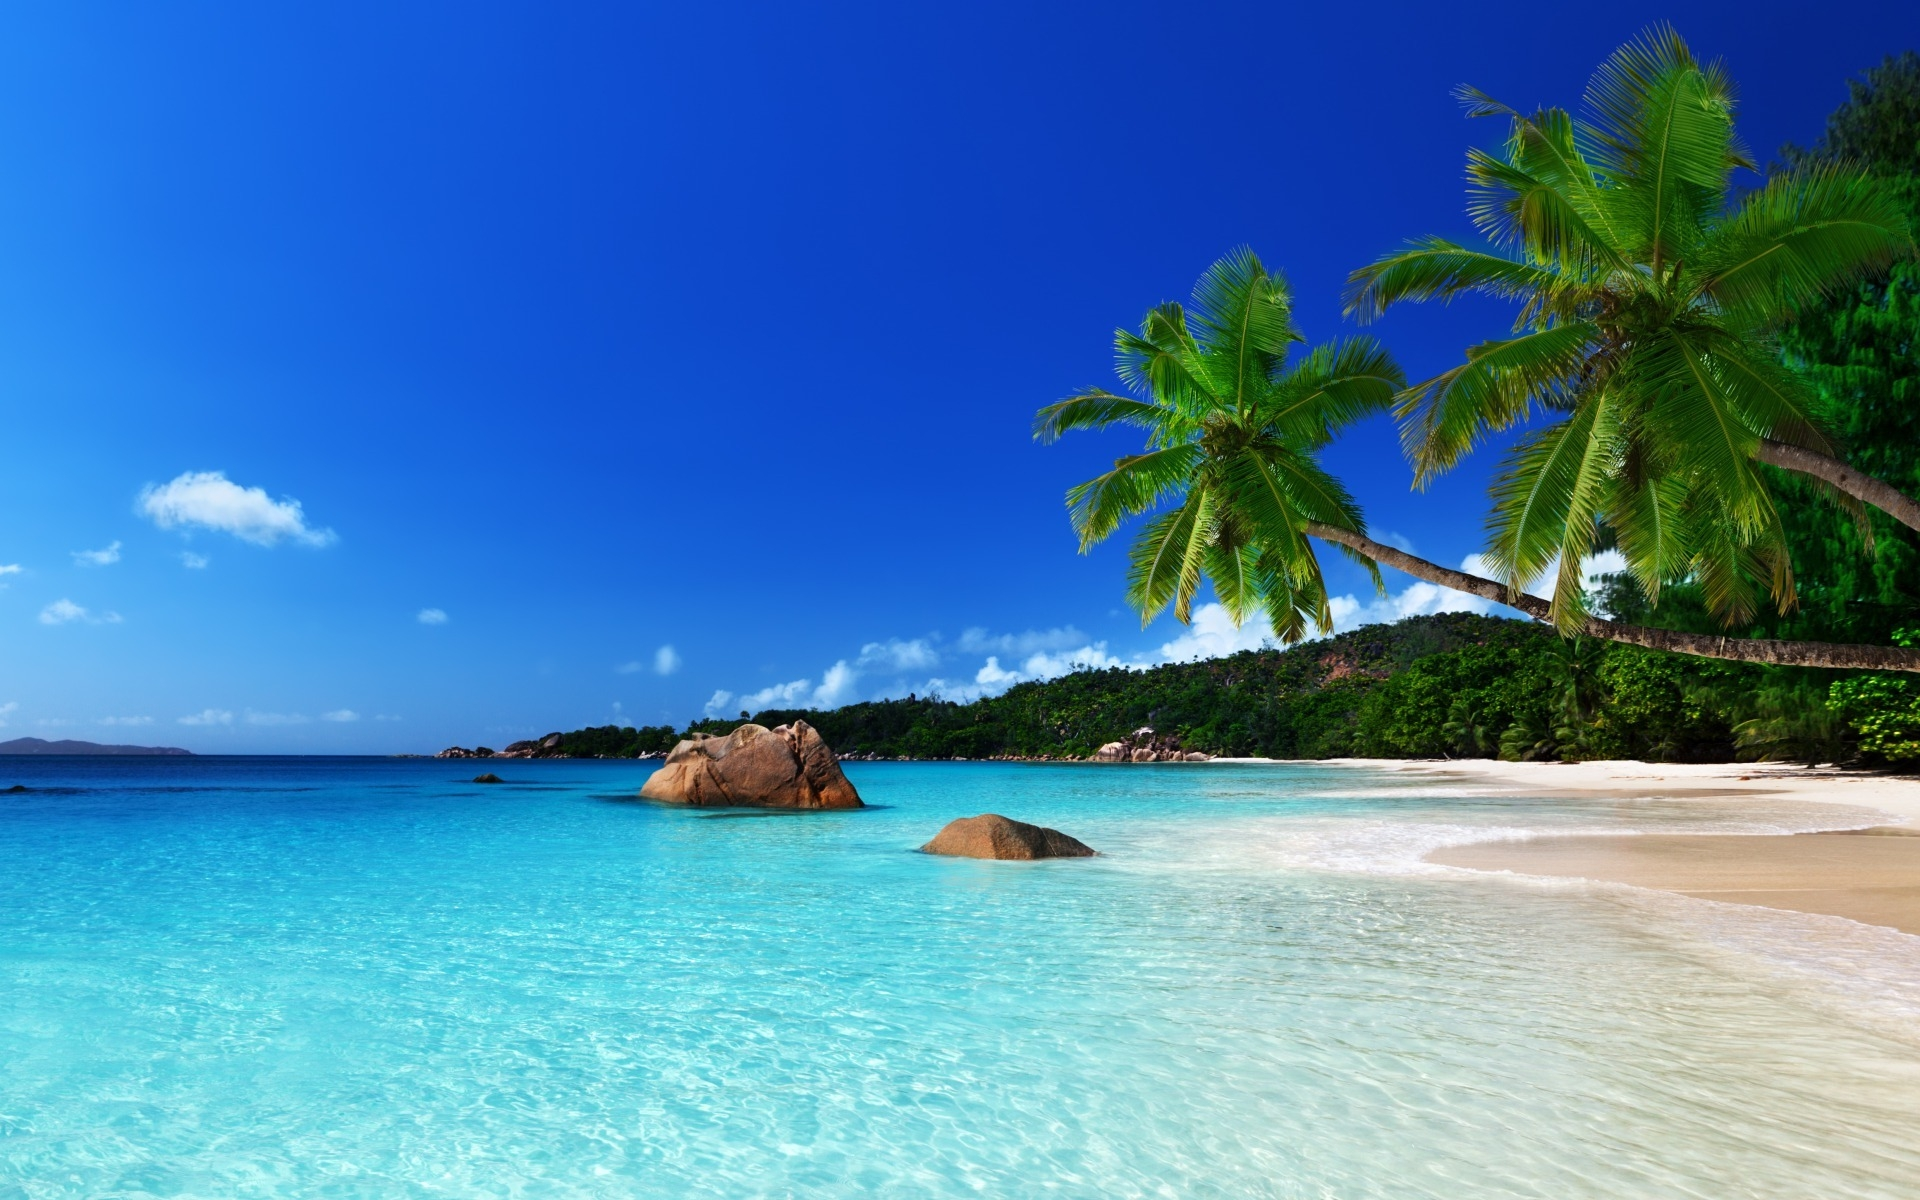
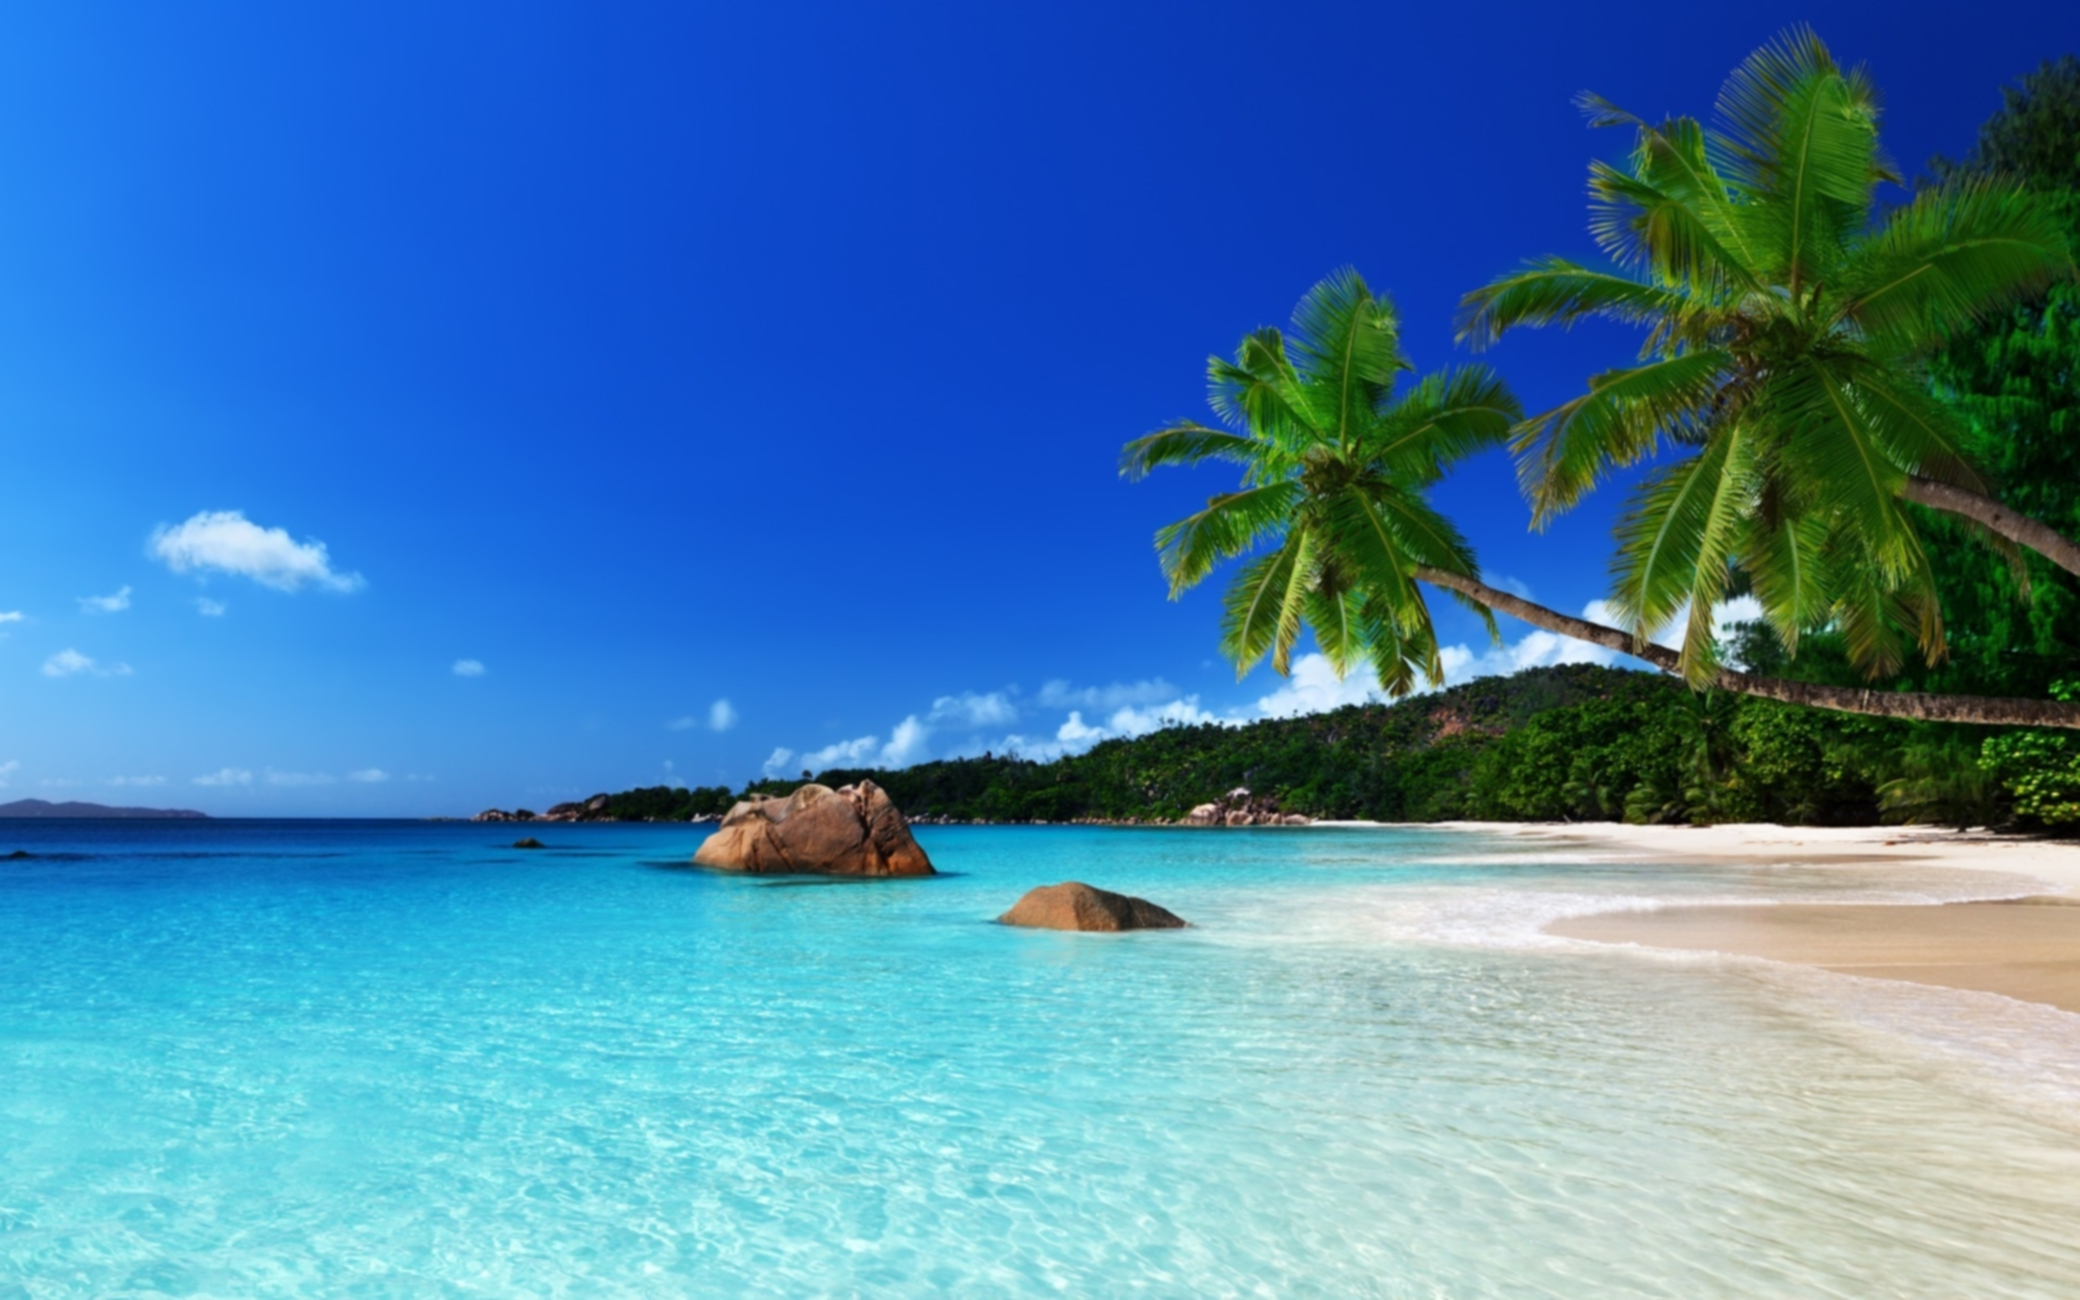
home page style changes

diff --git a/css/style.css b/css/style.css
@@ -403,7 +403,7 @@ h1,h2,h3,h4,h5,h6,.main-title a, .flight-info h3 .flight-destination,.blog-post-
 /* -----------------------------------------------------
 		Navbar
    ----------------------------------------------------- */
-
+/*
 .navbar{
 	margin-bottom:0px;
 	z-index:200;
@@ -501,9 +501,10 @@ h1,h2,h3,h4,h5,h6,.main-title a, .flight-info h3 .flight-destination,.blog-post-
 	padding-bottom: 9px;
 	font-size: 14px;
 }
+*/
 
 /* New */
-
+/*
 .main-navbar .navbar-nav .dropdown:hover > .dropdown-menu{
 	display:block;
 }
@@ -530,9 +531,9 @@ h1,h2,h3,h4,h5,h6,.main-title a, .flight-info h3 .flight-destination,.blog-post-
 	margin-top:5px;
 	margin-right:-10px;
 }
-
+*/
 /* New */
-
+/*
 .main-navbar .mega-dropdown-menu{
 	padding:40px 20px 40px !important;
 }
@@ -564,11 +565,12 @@ h1,h2,h3,h4,h5,h6,.main-title a, .flight-info h3 .flight-destination,.blog-post-
 	z-index:100;
 	width:100%;
 }
+*/
 
 /* new nav bar style */
 .new-navbar {
     position: fixed;
-    /*border: 1px solid #000000;*/
+    border: 0px solid #00000000;
     width: 100%;
     z-index: 9;
     background: #4f68c782;
@@ -600,6 +602,13 @@ h1,h2,h3,h4,h5,h6,.main-title a, .flight-info h3 .flight-destination,.blog-post-
 .new-navbar .nav > li > a > span{
 	padding: 0 3px;
 }
+
+#menu-button {
+	color: #ffffff;
+}
+#menu-button > .icon-bar {
+	background-color: #ffffff;
+}
 /* end of new nav bar style */
 
 /* new home header section */
@@ -607,13 +616,31 @@ h1,h2,h3,h4,h5,h6,.main-title a, .flight-info h3 .flight-destination,.blog-post-
 	margin: 0px;
 	/*padding:0px;*/
 }
+
 .bg {
-	background: #a0afea url(/images/random) no-repeat fixed center;
-    min-height: 500px;
+	background: #a0afea url(/images/random) no-repeat fixed content-box;
+	background-size:cover;
+	min-height: 500px;
+	top:0;
+	left:0;
 	width: 100%;
 	margin: 0px;
 	padding:0px;
 }
+
+@media(max-width:991px){
+	.bg {
+		min-height: 37vh;
+		background-size: contain;
+	}
+}
+@media(max-width:768px){
+	.bg {
+		min-height: 30vh;
+		background-size: contain;
+	}
+}
+
 /* end of home header section */
 
 /************* CRUISE HOMEPAGE *************/

diff --git a/css/orange.css b/css/orange.css
@@ -654,9 +654,9 @@ p{
     background-color: rgba(0,0,0, 0.9);
 }
 
-#menu-button{
+/*#menu-button{
 	color:black;
-}
+}*/
 
 #close-button{
 	color:#818181;

diff --git a/application/views/headernew.php b/application/views/headernew.php
@@ -79,7 +79,7 @@
         </div>
         <!-- end top-bar -->
         <!--<nav class="navbar navbar-default main-navbar navbar-custom navbar-white" id="mynavbar">-->
-        <nav class="new-navbar" id="mynavbar1">
+        <nav class="navbar navbar-default navbar-custom new-navbar" id="mynavbar1">
             <div class="container">
                 <div class="navbar-header">
                     <button type="button" class="navbar-toggle" id="menu-button">
@@ -87,26 +87,26 @@
                       <span class="icon-bar"></span>
                       <span class="icon-bar"></span>                        
                     </button>
-                    <div class="header-search hidden-lg">
+                    <!-- <div class="header-search hidden-lg">
                     	<a href="javascript:void(0)" class="search-button"><span><i class="fa fa-search"></i></span></a>
-                    </div>
+                    </div> -->
                     <a href="<?php echo base_url(); ?>" class="navbar-brand"><img src="<?php echo base_url(); ?>upload/<?php echo $setting[0]["logo"];?>" class="img-responsive" style="width: 125px; height: 50px;"></a>
                 </div><!-- end navbar-header -->
                 
                 <div class="collapse navbar-collapse" id="myNavbar1">
                     <ul class="nav navbar-nav navbar-right">
-                        <li><a href="<?php echo base_url(); ?>"><span><i class="fa fa-home fa-fw"></i></span>Home</a></li>
+                        <li><a href="<?php echo base_url(); ?>"><span><i class="fa fa-home"></i></span>Home</a></li>
 						<li><a href="<?php echo base_url(); ?>search"><span><i class="fa fa-search"></i></span>Search Flight</a></li>
                         <?php if(!$this->session->userdata('user_id')){ ?>
                             <li><a href="<?php echo base_url(); ?>login"><span><i class="fa fa-lock"></i></span>Login</a></li>
                             <li><a href="<?php echo base_url(); ?>register"><span><i class="fa fa-plus"></i></span>Sign Up</a></li>
                         <?php } else {?>
-                            <li><a href="<?php echo base_url(); ?>user"><span><i class="fa fa-user"></i></span><?php echo 'Hi! '.$this->session->userdata('name');?></a></li>
+                            <li><a href="<?php echo base_url(); ?>user"><span><i class="fa fa-user"></i></span><?php echo 'Hi! '.explode(" ",$this->session->userdata('name'))[0];?></a></li>
                             <li><a href="<?php echo base_url(); ?>user/logout"><span><i class="fa fa-power-off"></i></span>Log Out</a></li>
                         <?php } ?>
 					    <!--<li><a href="<?php echo base_url(); ?>terms-and-conditions">Term & Conditions</a></li>
 					    <li><a href="<?php echo base_url(); ?>faq">FAQ</a></li>
-                        <li><a href="<?php echo base_url(); ?>contact">Contact Us</a></li>-->
+                        <li><a href="<?php echo base_url(); ?>contact"><span><i class="fa fa-phone">Contact Us</a></li>-->
                         <!--<li><a href="javascript:void(0)" class="search-button"><span><i class="fa fa-search"></i></span></a></li>-->
                     </ul>
                 </div><!-- end navbar collapse -->
@@ -126,12 +126,16 @@
                     
                         <a class="list-group-item" data-parent="#main-menu" href="<?php echo base_url(); ?>"><span><i class="fa fa-home link-icon"></i></span>Home</a>
                         <a class="list-group-item" data-parent="#main-menu" href="<?php echo base_url(); ?>search"><i class="fa fa-plane link-icon"></i><span></span>Search Flight</a>
-						<a class="list-group-item" data-parent="#main-menu" href="<?php echo base_url(); ?>terms-and-conditions"><span><i class="fa fa-book link-icon"></i></span>Term & Conditions</a>
-						<a class="list-group-item" data-parent="#main-menu" href="<?php echo base_url(); ?>faq"><span><i class="fa fa-question-circle link-icon"></i></span>FAQ</a>
+						<!--<a class="list-group-item" data-parent="#main-menu" href="<?php echo base_url(); ?>terms-and-conditions"><span><i class="fa fa-book link-icon"></i></span>Term & Conditions</a>-->
+						<!--<a class="list-group-item" data-parent="#main-menu" href="<?php echo base_url(); ?>faq"><span><i class="fa fa-question-circle link-icon"></i></span>FAQ</a>-->
+                        <?php if(!$this->session->userdata('user_id')){ ?>
+                            <a class="list-group-item" data-parent="#main-menu" href="<?php echo base_url(); ?>login"><span><i class="fa fa-lock link-icon"></i></span>Login</a></li>
+                            <a class="list-group-item" data-parent="#main-menu" href="<?php echo base_url(); ?>register"><span><i class="fa fa-plus link-icon"></i></span>Sign Up</a></li>
+                        <?php } else {?>
+                            <a class="list-group-item" data-parent="#main-menu" href="<?php echo base_url(); ?>user"><span><i class="fa fa-user link-icon"></i></span><?php echo 'Hi! '.explode(" ",$this->session->userdata('name'))[0];?></a></li>
+                            <a class="list-group-item" data-parent="#main-menu" href="<?php echo base_url(); ?>user/logout"><span><i class="fa fa-power-off link-icon"></i></span>Log Out</a></li>
+                        <?php } ?>
 						<a class="list-group-item" data-parent="#main-menu" href="<?php echo base_url(); ?>contact"><span><i class="fa fa-phone link-icon"></i></span>Contact Us</a>
-                        
-                        
-                    
                     </div><!-- end list-group -->
                 </div><!-- end main-menu -->
             </div><!-- end mySidenav -->

diff --git a/application/controllers/Home_Controller.php b/application/controllers/Home_Controller.php
@@ -59,7 +59,7 @@ class Home_Controller extends CI_Controller
 		$this->load->view('footer');
 	}
 	public function serveRandomImages() {
-		$arr = array("images/home_sea_bg.jpg", "images/home_sea_bg_01.jpg", "images/homepage-slider-1.jpg", "images/flight-slider-1.jpg", "images/newsletter.jpg", "images/video-banner.jpg", "images/cover-holiday.jpg");
+		$arr = array("images/home_sea_bg_1.jpg", "images/home_sea_bg_01_1.jpg", "images/cover-registration.jpg", "images/flight-slider-1.jpg", "images/newsletter.jpg", "images/video-banner.jpg", "images/cover-holiday.jpg");
 		$idx = rand(0, count($arr)-1);
 		$filename=FCPATH.$arr[$idx]; //<-- specify the image  file
 		if(file_exists($filename)){ 
